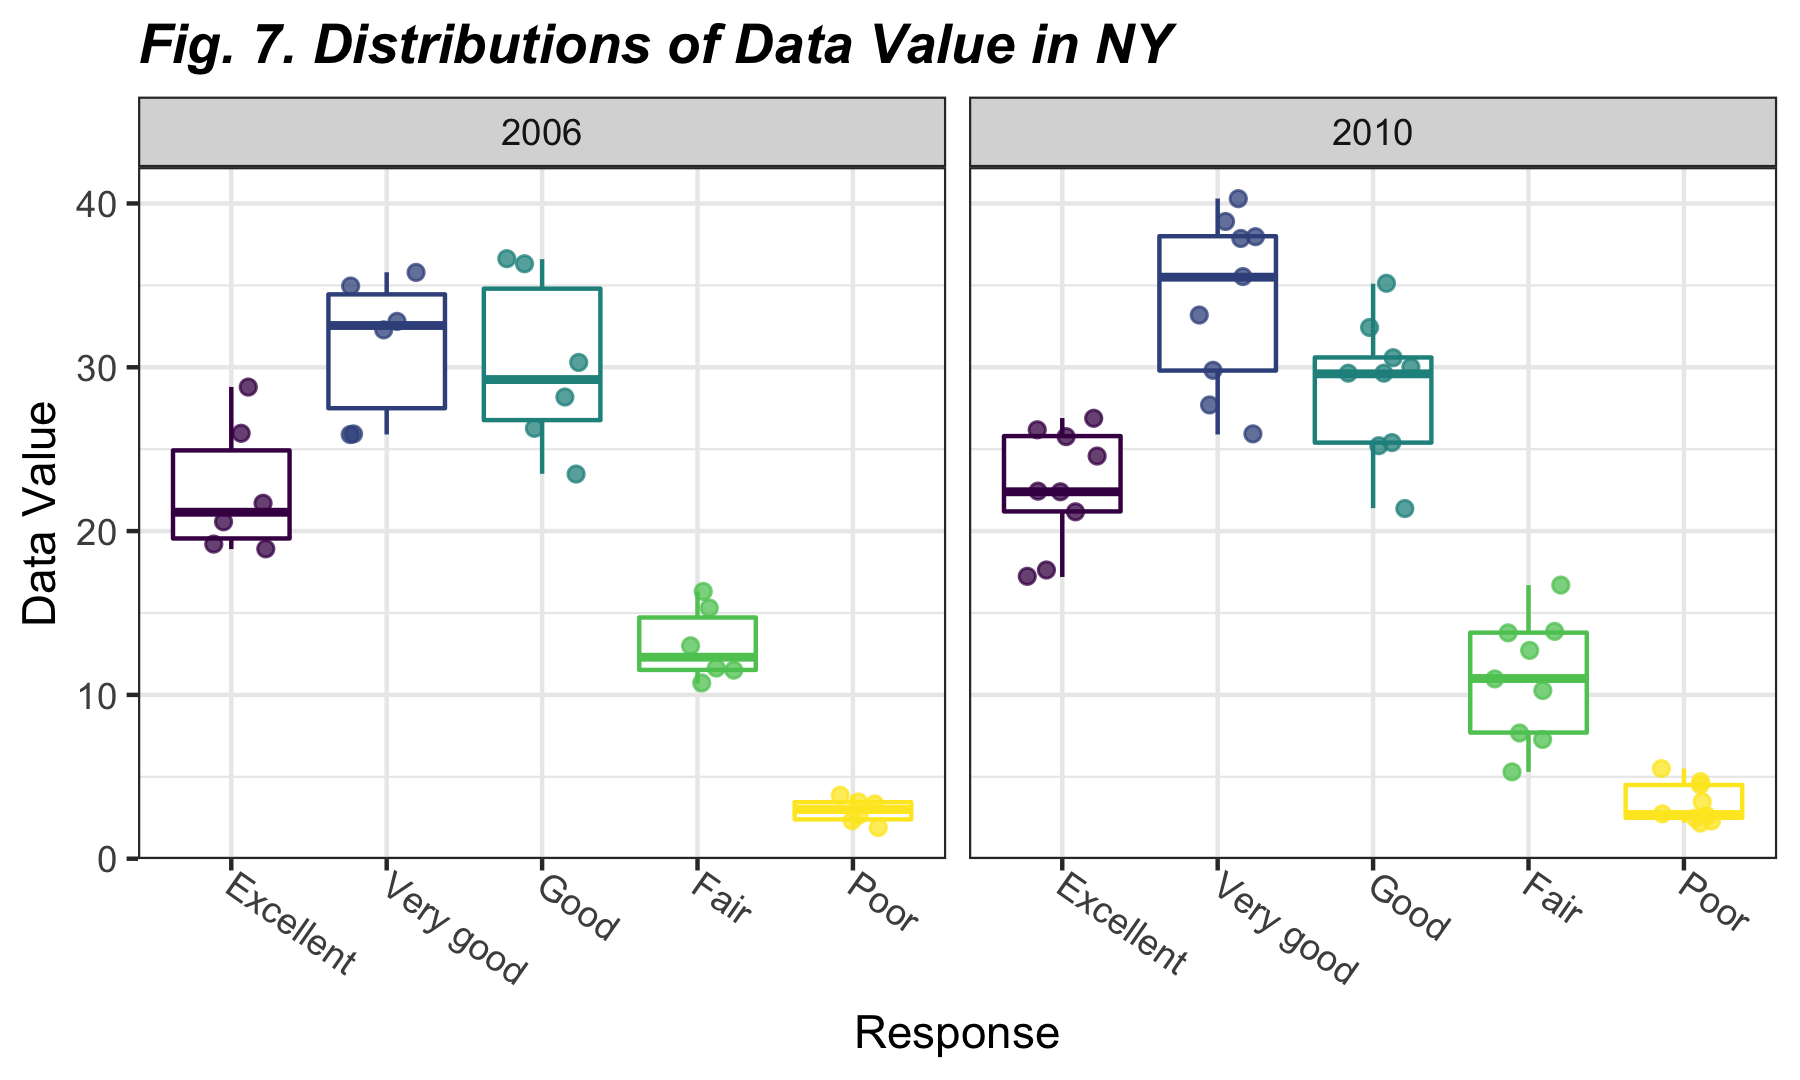
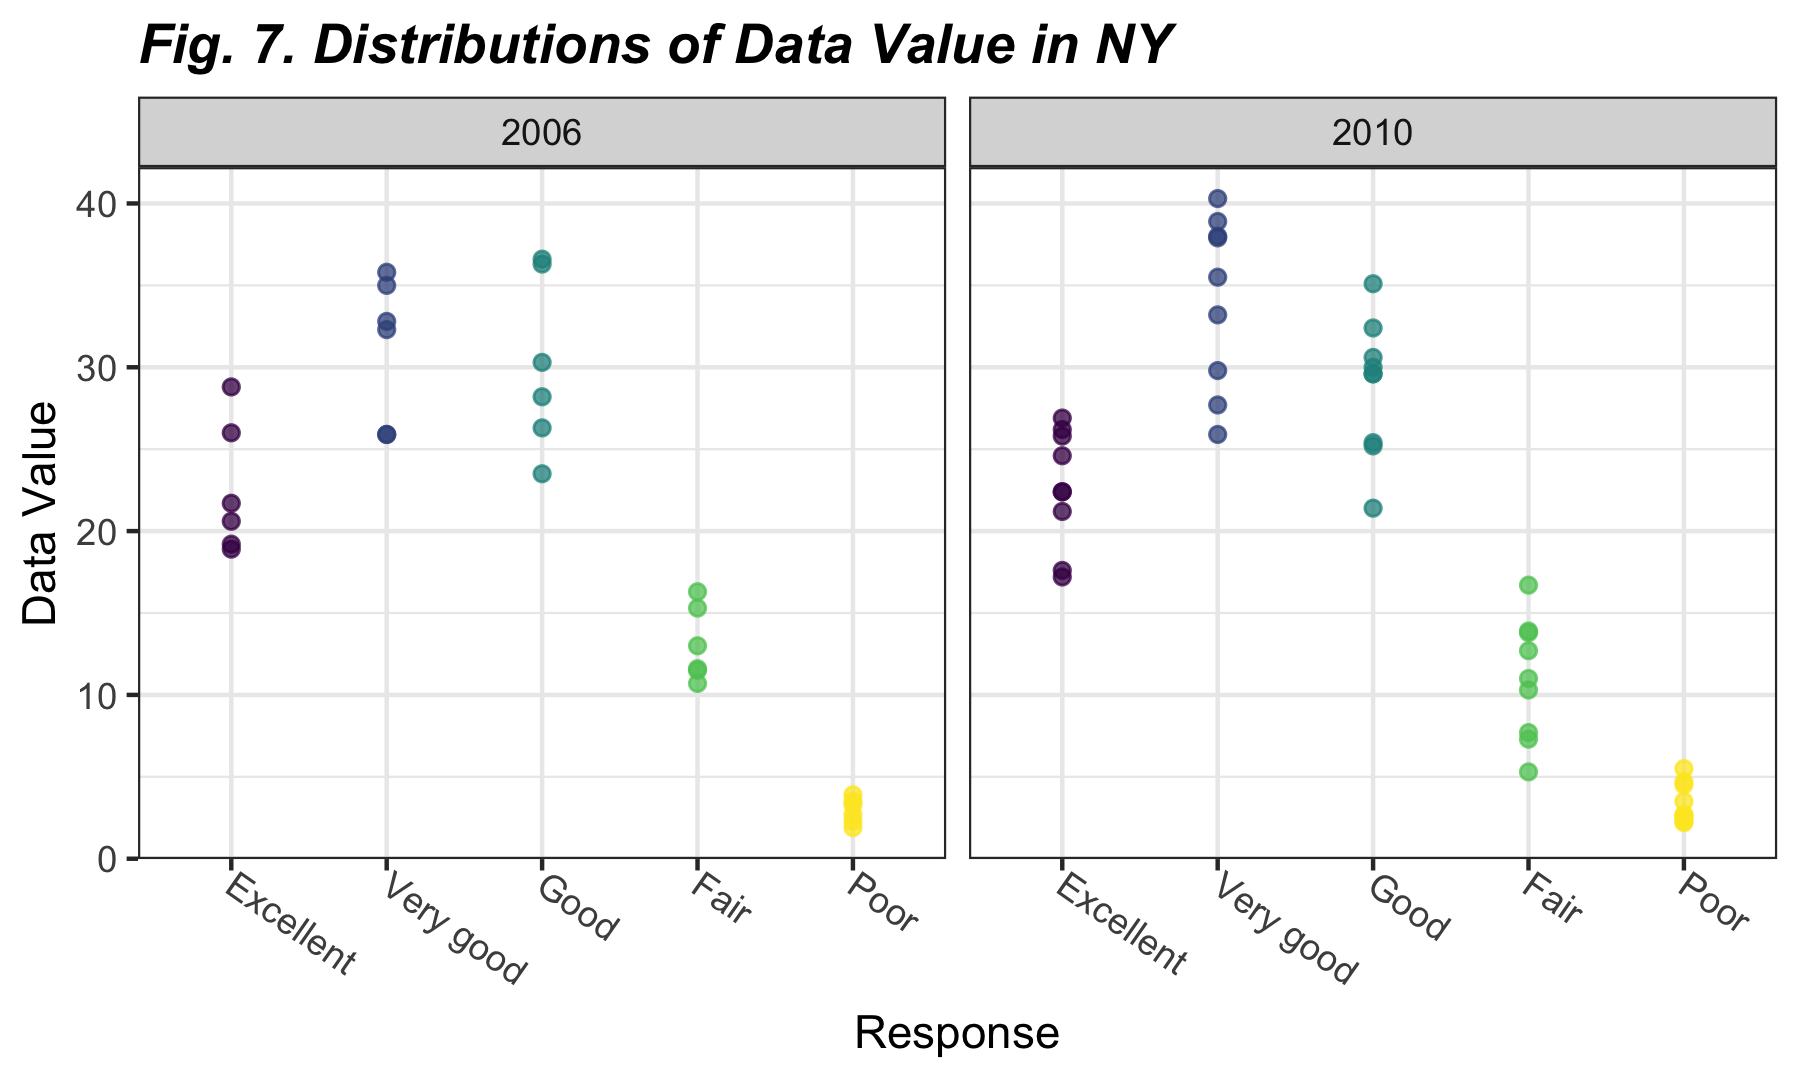
back to original plot

diff --git a/p8105_hw3_jys2137.md b/p8105_hw3_jys2137.md
@@ -379,8 +379,7 @@ brfss_df %>%
     year %in% c(2006, 2010), 
     state %in% c("NY")) %>% 
   ggplot(aes(x = response, y = data_value, color = response)) +
-  geom_boxplot() +
-  geom_jitter(width = 0.25, alpha = 0.75) +
+  geom_point(alpha = .75) +
   facet_grid(~year) +
   theme_bw() +
   theme(
